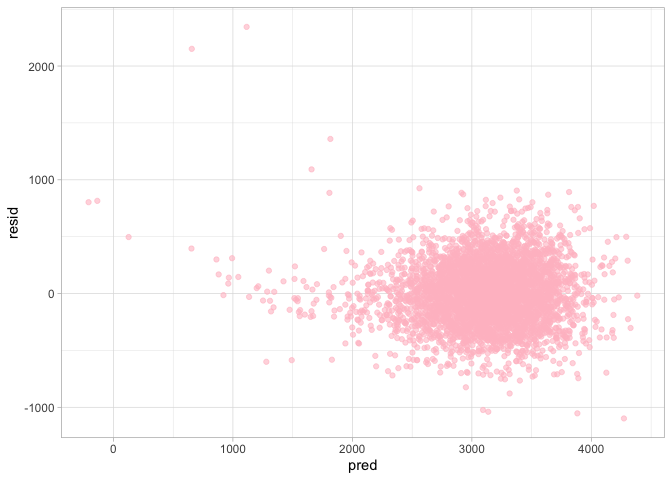
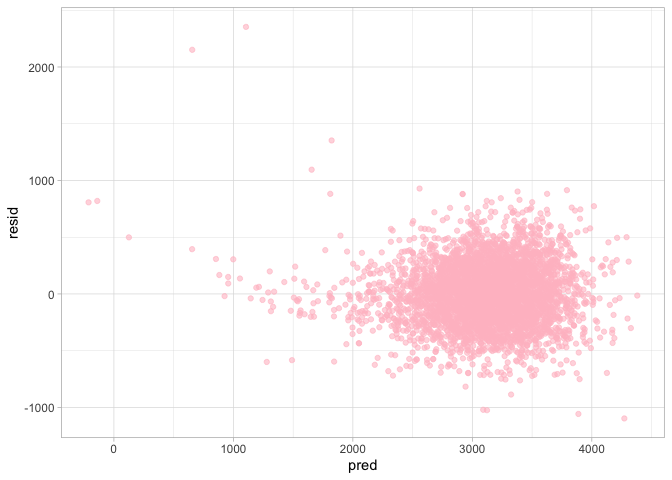
problem 1

diff --git a/p8105_hw6_cx2257.md b/p8105_hw6_cx2257.md
@@ -6,6 +6,8 @@ Congyang Xie
 ``` r
 library(tidyverse)
 library(readr)
+library(modelr)
+library(mgcv)
 ```
 
 ``` r
@@ -259,45 +261,77 @@ step(multi_fit, direction = 'backward')
     ##      -2.676       -4.843
 
 ``` r
-fit = lm(
-  bwt ~ babysex + bhead + blength + delwt + fincome + frace + gaweeks +
-    malform + menarche + mheight + momage + mrace + parity +
-    pnumlbw + pnumsga + ppbmi + ppwt + smoken,
-  data = birthweight_df
-)
+fit = lm(formula = bwt ~ babysex + bhead + blength + delwt + fincome + 
+    gaweeks + mheight + mrace + parity + ppwt + smoken, data = birthweight_df)
 
 fit %>% 
   broom::tidy()
 ```
 
-    ## # A tibble: 24 × 5
+    ## # A tibble: 14 × 5
     ##    term         estimate std.error statistic   p.value
     ##    <chr>           <dbl>     <dbl>     <dbl>     <dbl>
-    ##  1 (Intercept) -6294.      661.      -9.53   2.64e- 21
-    ##  2 babysex        28.7       8.47     3.39   7.02e-  4
-    ##  3 bhead         131.        3.45    37.9    2.16e-271
-    ##  4 blength        75.0       2.02    37.1    1.75e-261
-    ##  5 delwt           4.10      0.395   10.4    5.62e- 25
-    ##  6 fincome         0.290     0.180    1.61   1.07e-  1
-    ##  7 frace2         14.3      46.2      0.311  7.56e-  1
-    ##  8 frace4        -47.0      44.7     -1.05   2.93e-  1
-    ##  9 frace3         21.2      69.3      0.306  7.59e-  1
-    ## 10 frace8          4.30     74.1      0.0580 9.54e-  1
-    ## # … with 14 more rows
+    ##  1 (Intercept) -6127.      139.       -44.2  0        
+    ##  2 babysex        28.6       8.45       3.38 7.37e-  4
+    ##  3 bhead         131.        3.45      37.9  3.10e-272
+    ##  4 blength        74.9       2.02      37.1  4.29e-262
+    ##  5 delwt           4.11      0.392     10.5  2.26e- 25
+    ##  6 fincome         0.318     0.175      1.82 6.88e-  2
+    ##  7 gaweeks        11.6       1.46       7.93 2.79e- 15
+    ##  8 mheight         6.59      1.78       3.69 2.23e-  4
+    ##  9 mrace2       -139.        9.91     -14.0  1.21e- 43
+    ## 10 mrace4       -101.       19.3       -5.21 1.98e-  7
+    ## 11 mrace3        -74.9      42.3       -1.77 7.68e-  2
+    ## 12 parity         96.3      40.3        2.39 1.70e-  2
+    ## 13 ppwt           -2.68      0.427     -6.26 4.20e- 10
+    ## 14 smoken         -4.84      0.586     -8.27 1.75e- 16
 
 ``` r
 birthweight_df %>% 
-  modelr::add_residuals(fit) %>% 
-  modelr::add_predictions(fit) %>% 
+  add_residuals(fit) %>% 
+  add_predictions(fit) %>% 
   ggplot(aes(x = pred, y = resid)) + 
   geom_point(alpha = 0.6, color = "pink") +
   theme_light()
 ```
 
-    ## Warning in predict.lm(model, data): prediction from a rank-deficient fit may be
-    ## misleading
-
-    ## Warning in predict.lm(model, data): prediction from a rank-deficient fit may be
-    ## misleading
-
 ![](p8105_hw6_cx2257_files/figure-gfm/unnamed-chunk-4-1.png)<!-- -->
+
+``` r
+cv_df = 
+  crossv_mc(birthweight_df, 100) 
+
+cv_df =
+  cv_df %>% 
+  mutate(
+    train = map(train, as_tibble),
+    test = map(test, as_tibble))
+
+cv_df = 
+  cv_df %>% 
+  mutate(
+    linear_mod  = map(train, ~lm(formula = bwt ~ babysex + bhead + blength + delwt + fincome + 
+    gaweeks + mheight + mrace + parity + ppwt + smoken, data = .x)),
+    main_mod  = map(train, ~ lm(bwt ~ blength + gaweeks, data = .x)),
+    side_mod  = map(train, ~ lm(bwt ~ bhead + blength + babysex, data = .x))) %>% 
+  mutate(
+    rmse_linear = map2_dbl(linear_mod, test, ~rmse(model = .x, data = .y)),
+    rmse_smooth = map2_dbl(main_mod, test, ~rmse(model = .x, data = .y)),
+    rmse_wiggly = map2_dbl(side_mod, test, ~rmse(model = .x, data = .y)))
+```
+
+``` r
+cv_df %>% 
+  select(starts_with("rmse")) %>% 
+  pivot_longer(
+    everything(),
+    names_to = "model", 
+    values_to = "rmse",
+    names_prefix = "rmse_") %>% 
+  mutate(model = fct_inorder(model)) %>% 
+  ggplot(aes(x = model, y = rmse)) + 
+  geom_violin() +
+  theme_light()
+```
+
+![](p8105_hw6_cx2257_files/figure-gfm/unnamed-chunk-6-1.png)<!-- -->
